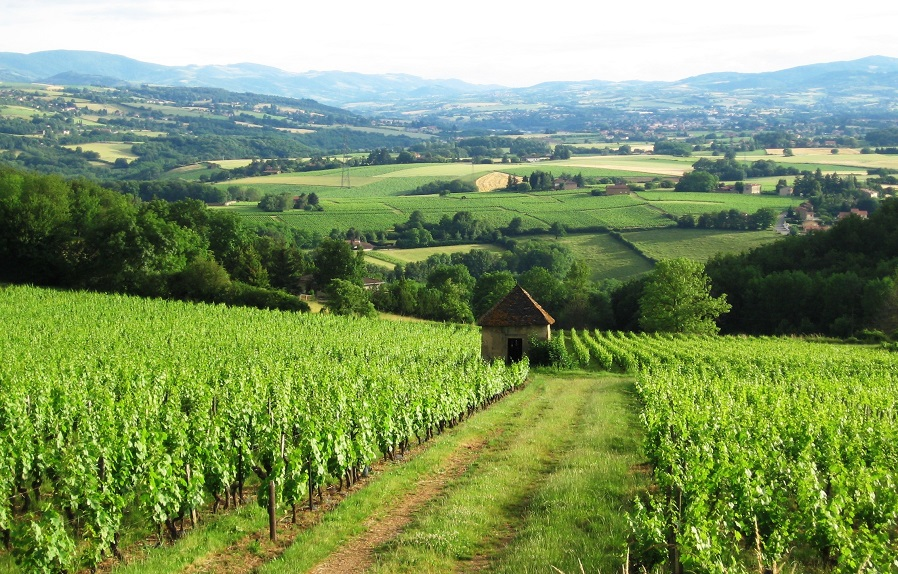
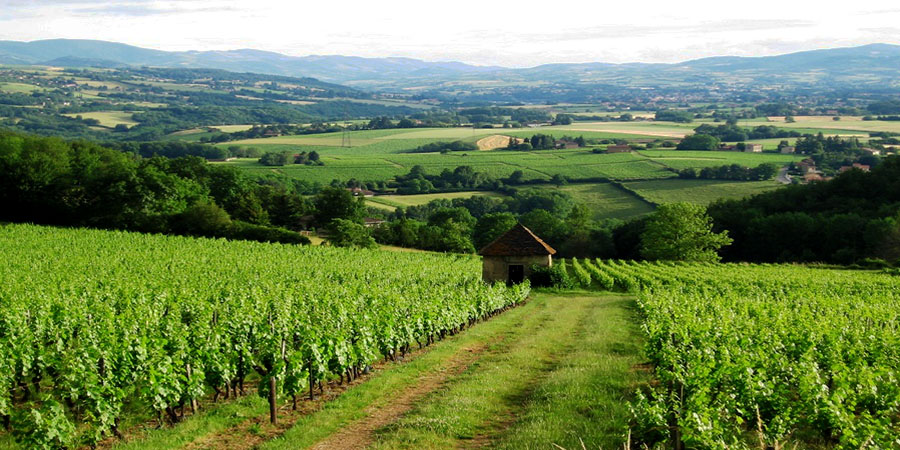
wip

Changed region(s): [[0.0, 0.0622, 1.0, 1.0], [0.0, 0.0, 0.1871, 0.0622]]

diff --git a/index.html b/index.html
@@ -17,7 +17,7 @@ title: Todd B. Adams
                 <p>{{ post.excerpt }}</p>
             </md-card-content>
             <md-card-actions layout="row" layout-align="end center">
-                <md-button>Read more</md-button>
+                <md-button href="{{ post.url }}">Read more</md-button>
             </md-card-actions>
             <footer>
                 <p class="md-body-1">updated on {{ post.date | date_to_string }}</span>

diff --git a/_posts/2016-03-26-Beaujolais.html b/_posts/2016-03-26-Beaujolais.html
@@ -1,6 +1,9 @@
 ---
 layout: posts
 title: Beaujolais
+image: beaujolais
+imagecaption: The French wine region of Beaujolais located south of Burgundy and north of the Rhone Valley
+imageby: Geoff Wong
 date: 2016-03-26
 tags: wset3
 category: wine

diff --git a/_posts/2016-03-26-spain.html b/_posts/2016-03-26-spain.html
@@ -8,7 +8,7 @@ date: 2016-03-26
 tags: wset3
 category: wine
 permalink: /wine/spain
-published: true
+published: false
 excerpt_separator: <!--more-->
 ---
 
